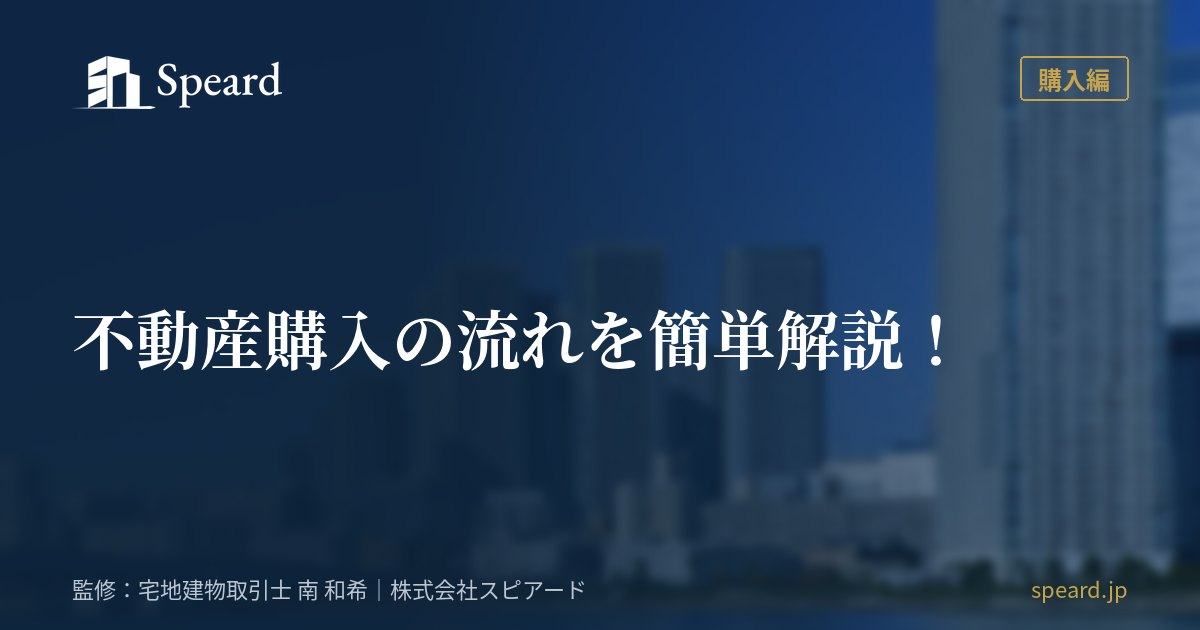
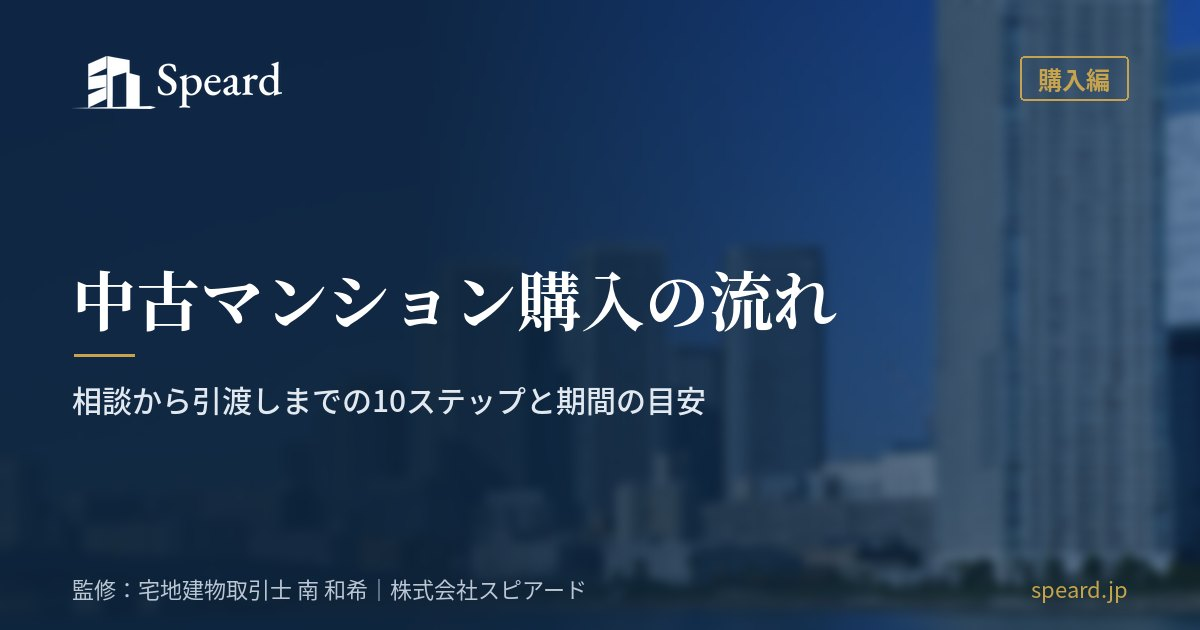
ogp: manifest管理に移した旧形式2本を二重に数えないよう修正
Claude-Session: https://claude.ai/code/session_01UMsPd3YV6uRdnnPo2GvARP

Changed region(s): [[0.0617, 0.4222, 0.8017, 0.6635]]

diff --git a/tools/make_col_ogp.py b/tools/make_col_ogp.py
@@ -156,7 +156,7 @@ def main():
         man = json.load(open(os.path.join(ROOT, 'columns/manifest.json'), encoding='utf-8'))['columns']
         tpath = os.path.join(OUT, '.titles.json')
         done = json.load(open(tpath, encoding='utf-8')) if os.path.exists(tpath) else {}
-        for c in man + bp.legacy_columns():
+        for c in man + [x for x in bp.legacy_columns() if x['id'] not in {m['id'] for m in man}]:
             if done.get(c['id']) != c['title'] + '|' + (c.get('hero') or '') or not os.path.exists(os.path.join(OUT, f"{c['id']}.jpg")):
                 print(c['id'])
         return
@@ -164,7 +164,7 @@ def main():
         print('ogp: 日本語フォントがないためスキップ')
         return
     man = json.load(open(os.path.join(ROOT, 'columns/manifest.json'), encoding='utf-8'))['columns']
-    cols = man + bp.legacy_columns()
+    cols = man + [x for x in bp.legacy_columns() if x['id'] not in {m['id'] for m in man}]
     tpath = os.path.join(OUT, '.titles.json')
     done = json.load(open(tpath, encoding='utf-8')) if os.path.exists(tpath) else {}
     logo = Image.open(os.path.join(ROOT, 'logo.png')).convert('RGBA')
